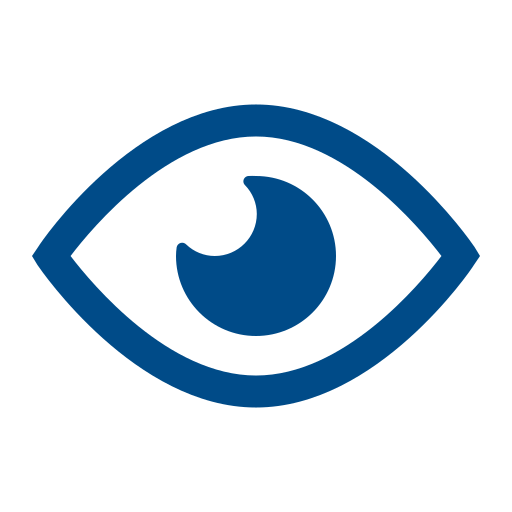
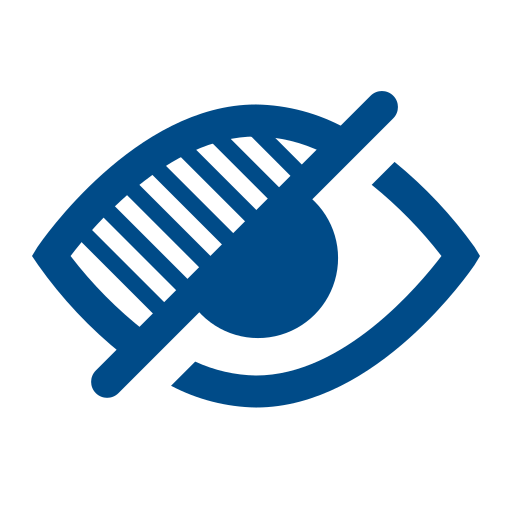
The qcu login scene is done. We make the password visible or invisible. It checks the role from the database after validation it let the user to log in. I created some interfaces and exception classes for future.

diff --git a/src/main/java/gui/controllers/QCULogInController.java b/src/main/java/gui/controllers/QCULogInController.java
@@ -1,4 +1,106 @@
 package gui.controllers;
 
+import bll.LoginManager;
+import dal.LoginDAO;
+import io.github.palexdev.materialfx.controls.MFXButton;
+import io.github.palexdev.materialfx.controls.MFXTextField;
+import javafx.fxml.FXML;
+import javafx.scene.control.Label;
+import javafx.scene.control.PasswordField;
+import javafx.scene.control.TextField;
+import javafx.scene.image.ImageView;
+
+import javafx.scene.image.Image;
+
+import java.net.URL;
+
 public class QCULogInController {
+
+
+    @FXML
+    private MFXTextField usernameField;
+
+    @FXML
+    private PasswordField passwordFieldMasked;
+
+    @FXML
+    private TextField passwordFieldVisible;
+
+    @FXML
+    private Label errorLabel;
+
+
+
+    @FXML
+    private Label eyeLabel;
+//    @FXML
+//    private Label eyeLabel;
+
+    @FXML
+    private MFXButton logInButton;
+
+    private boolean passwordVisible = false;
+    private LoginManager loginManager = new LoginManager();
+
+
+
+    @FXML
+    private void initialize() {
+        errorLabel.setVisible(false);
+
+        passwordFieldMasked.setVisible(true);
+        passwordFieldVisible.setVisible(false);
+
+        // Set initial eye icon
+        setEyeIcon("eyeOpened.png");
+
+        logInButton.setOnAction(e -> handleLogin());
+        eyeLabel.setOnMouseClicked(e -> togglePasswordVisibility());
+    }
+
+    private void handleLogin() {
+        String username = usernameField.getText().trim();
+        String password = passwordVisible
+                ? passwordFieldVisible.getText().trim()
+                : passwordFieldMasked.getText().trim();
+
+        boolean isValid = loginManager.checkQCULogin(username, password);
+
+        if (isValid) {
+            errorLabel.setVisible(false);
+            System.out.println("Login Successful"); // TODO: Load QCU main scene here
+        } else {
+            errorLabel.setText("Incorrect username or password");
+            errorLabel.setStyle("-fx-text-fill: red;");
+            errorLabel.setVisible(true);
+        }
+    }
+
+    private void togglePasswordVisibility() {
+        if (passwordVisible) {
+            passwordFieldMasked.setText(passwordFieldVisible.getText());
+            passwordFieldMasked.setVisible(true);
+            passwordFieldVisible.setVisible(false);
+            setEyeIcon("eyeOpened.png");
+        } else {
+            passwordFieldVisible.setText(passwordFieldMasked.getText());
+            passwordFieldVisible.setVisible(true);
+            passwordFieldMasked.setVisible(false);
+            setEyeIcon("eyeClosed.png");
+        }
+        passwordVisible = !passwordVisible;
+    }
+
+    private void setEyeIcon(String imageName) {
+        URL imageUrl = getClass().getResource("/images/" + imageName);
+        if (imageUrl != null) {
+            Image image = new Image(imageUrl.toExternalForm());
+            ImageView imageView = new ImageView(image);
+            imageView.setFitWidth(24);
+            imageView.setFitHeight(24);
+            eyeLabel.setGraphic(imageView);
+        } else {
+            System.out.println("Image not found: " + imageName);
+        }
+    }
 }

diff --git a/src/main/java/dal/LoginDAO.java b/src/main/java/dal/LoginDAO.java
@@ -1,0 +1,43 @@
+package dal;
+
+import java.sql.Connection;
+import java.sql.PreparedStatement;
+import java.sql.ResultSet;
+import java.sql.SQLException;
+
+public class LoginDAO {
+
+    private DBAccess dbAccess = new DBAccess();
+
+    public boolean validateQualityControlUser(String username, String password) {
+        String sql = "SELECT Role FROM LoginInfo WHERE Username = ? AND Password = ?";
+
+        try (Connection conn = dbAccess.DBConnection();
+            PreparedStatement stmt = conn.prepareStatement(sql)) {
+
+            stmt.setString(1, username);
+            stmt.setString(2, password);
+
+            ResultSet rs = stmt.executeQuery();
+
+            if (rs.next()) {
+                String roleFromDB = rs.getString("Role");
+
+                //to check if the role matches with the Quality Control in Enum
+                try {
+                    UserRole role = UserRole.fromString(roleFromDB);
+                    return role == UserRole.QUALITY_CONTROL;
+                } catch (IllegalArgumentException e) {
+                    //Invalid role
+                    return false;
+                }
+            }
+        } catch (SQLException e) {
+            e.printStackTrace();
+        }
+
+        return false;
+
+    }
+
+}

diff --git a/src/main/java/dal/UserRole.java b/src/main/java/dal/UserRole.java
@@ -1,0 +1,25 @@
+package dal;
+
+public enum UserRole {
+    OPERATOR("Operator"),
+    QUALITY_CONTROL("Quality Control");
+
+    private final String roleName;
+
+    UserRole(String roleName) {
+        this.roleName = roleName;
+    }
+
+    public String getRoleName() {
+        return roleName;
+    }
+
+    public static UserRole fromString(String text) {
+        for (UserRole role : UserRole.values()) {
+            if (role.roleName.equalsIgnoreCase(text)) {
+                return role;
+            }
+        }
+        throw new IllegalArgumentException("No enum constant with the role text: " + text);
+    }
+}

diff --git a/src/main/java/bll/LoginManager.java b/src/main/java/bll/LoginManager.java
@@ -1,0 +1,13 @@
+package bll;
+
+import dal.LoginDAO;
+
+public class LoginManager {
+
+    private final LoginDAO lgn = new LoginDAO();
+
+    public boolean checkQCULogin(String username, String password) {
+        return lgn.validateQualityControlUser(username, password);
+    }
+
+}

diff --git a/src/main/java/Utilies/MyException.java b/src/main/java/Utilies/MyException.java
@@ -1,0 +1,9 @@
+package Utilies;
+
+public class MyException extends Exception {
+    public MyException(String message) {
+        super(message);
+    }
+
+    // in utilies package we can have hashmap, parsers, exceptions this kind of utilities tools
+}

diff --git a/src/main/java/dal/interfaceDAO/ILoginDAO.java b/src/main/java/dal/interfaceDAO/ILoginDAO.java
@@ -1,0 +1,4 @@
+package dal.interfaceDAO;
+
+public interface ILoginDAO {
+}
